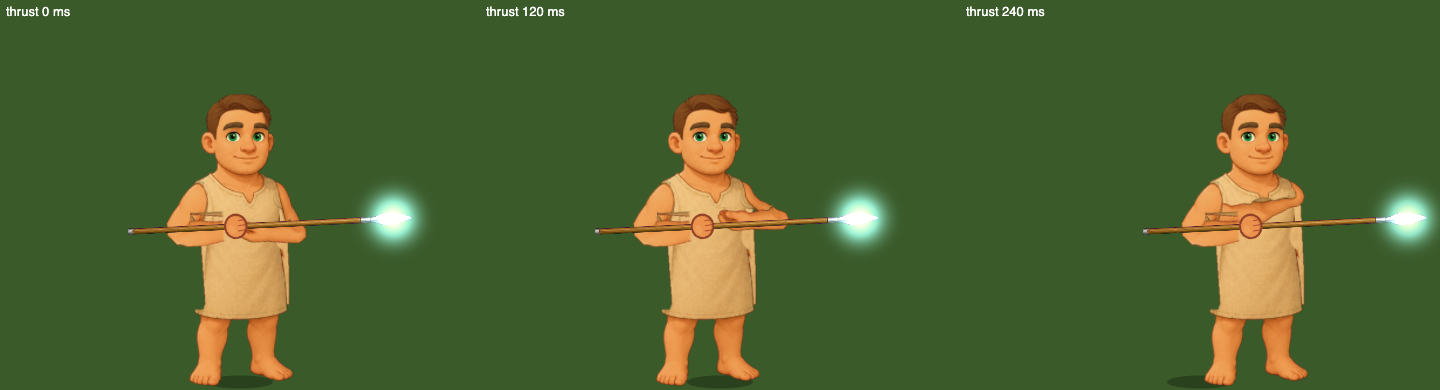
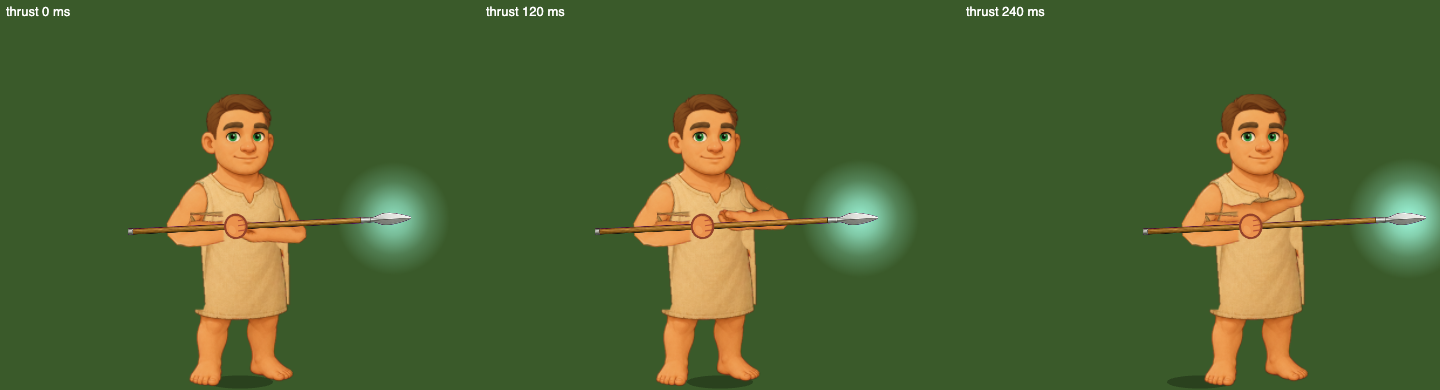
Magic Spear: a halo around the tip instead of a solid orb
The orb effect is now a corona: the colour only (no white core), densest next to
the head and fading out, ~3.2x the head's height across, with a crisp copy of the
weapon drawn over it so the spearhead stays clearly visible (owner feedback).

Changed region(s): [[0.5625, 0.4308, 0.6562, 0.6769], [0.2188, 0.4308, 0.3125, 0.6769], [0.9375, 0.4308, 1.0, 0.7077]]

diff --git a/game-client/src/Render/PixiRenderer/weaponFX.js b/game-client/src/Render/PixiRenderer/weaponFX.js
@@ -6,9 +6,9 @@
  *                   above the crossguard, found as the widest row in the lower part of the drawing,
  *                   so the hilt and the hand stay unlit (owner 2026-11-14)
  *   glow:#ffd27a    the same in a colour of its own
- *   orb             a round ball of light around the weapon's TIP (the Magic Spear, owner 2026-11-14):
+ *   orb             a round halo (corona) around the weapon's TIP, the head still clearly seen (the Magic Spear, owner 2026-11-14):
  *                   the head is found from the drawing (the top rows wider than the shaft), the orb
- *                   sits on its middle, a little bigger than the head, and breathes; orb:#hex for a colour
+ *                   is centred on it, about three times the head across, and breathes; orb:#hex for a colour
  *
  * An effect is built as a CHILD of the weapon's sprite (ArmRig.setHeld), so it inherits the weapon's
  * position, rotation, scale and visibility: it travels with the prop through the guard and every
@@ -106,7 +106,7 @@ function buildGlow(weapon, option) {
 // -------------------------------------------------------------------------------------------- orb
 const ORB = {
   colour: '#8fe3ff',   // an arcane pale blue
-  size: 2.6,           // the orb's diameter, as a multiple of the head's height
+  size: 3.2,           // the halo's diameter, as a multiple of the head's height
   alpha: [0.55, 0.95],
   scale: [0.9, 1.08],  // it swells a little as it brightens
   periodMs: 1400,
@@ -148,20 +148,17 @@ function orbTexture(colour) {
   const n = 128, c = document.createElement('canvas');
   c.width = c.height = n;
   const ctx = c.getContext('2d');
-  const g = ctx.createRadialGradient(n / 2, n / 2, 0, n / 2, n / 2, n / 2);
-  g.addColorStop(0, 'rgba(255,255,255,1)');
-  g.addColorStop(0.18, 'rgba(255,255,255,0.9)');
-  g.addColorStop(0.35, colour);
-  g.addColorStop(1, 'rgba(0,0,0,0)');
-  ctx.fillStyle = g;
-  ctx.fillRect(0, 0, n, n);
-  // the colour stop is opaque: fade it so only the core is solid
-  ctx.globalCompositeOperation = 'destination-in';
-  const f = ctx.createRadialGradient(n / 2, n / 2, 0, n / 2, n / 2, n / 2);
-  f.addColorStop(0, 'rgba(0,0,0,1)');
-  f.addColorStop(0.45, 'rgba(0,0,0,0.6)');
-  f.addColorStop(1, 'rgba(0,0,0,0)');
-  ctx.fillStyle = f;
+  const hex = colour.replace('#', '');
+  const [r, g, b] = [0, 2, 4].map((i) => parseInt(hex.length === 3 ? hex[i / 2] + hex[i / 2] : hex.slice(i, i + 2), 16) || 0);
+  const at = (alpha) => `rgba(${r},${g},${b},${alpha})`;
+  // a corona, not a ball: the colour only, densest next to the head and fading smoothly outwards (owner 2026-11-14:
+  // "a corona/halo rather than a solid orb ... see the blade"); the head itself is drawn again on top (buildOrb)
+  const grad = ctx.createRadialGradient(n / 2, n / 2, 0, n / 2, n / 2, n / 2);
+  grad.addColorStop(0, at(0.75));
+  grad.addColorStop(0.3, at(0.55));
+  grad.addColorStop(0.65, at(0.2));
+  grad.addColorStop(1, at(0));
+  ctx.fillStyle = grad;
   ctx.fillRect(0, 0, n, n);
   const t = Texture.from(c);
   orbCache.set(colour, t);
@@ -173,7 +170,10 @@ function buildOrb(weapon, option) {
   const sprite = new Sprite(orbTexture(colour));
   sprite.anchor.set(0.5);
   sprite.blendMode = BLEND_MODES.ADD;
-  weapon.addChild(sprite); // over the head: the tip shines from inside the ball of light
+  // children draw over their parent: a crisp copy of the weapon goes on top so the head shows clearly inside its halo
+  const crisp = new Sprite(weapon.texture);
+  crisp.anchor.copyFrom(weapon.anchor);
+  weapon.addChild(sprite, crisp);
   const phase = Math.random();
   let ready = false, base = 1;
   const place = () => {
@@ -182,6 +182,8 @@ function buildOrb(weapon, option) {
     const tip = tipOf(tex);
     sprite.position.set(tip.x - weapon.anchor.x * tex.width, tip.y - weapon.anchor.y * tex.height);
     base = (tip.height * ORB.size) / 128;
+    crisp.texture = tex;
+    crisp.anchor.copyFrom(weapon.anchor);
     ready = true;
   };
   return {
@@ -191,7 +193,7 @@ function buildOrb(weapon, option) {
       sprite.alpha = ORB.alpha[0] + (ORB.alpha[1] - ORB.alpha[0]) * k;
       sprite.scale.set(base * (ORB.scale[0] + (ORB.scale[1] - ORB.scale[0]) * k));
     },
-    destroy() { sprite.parent?.removeChild(sprite); sprite.destroy(); },
+    destroy() { for (const o of [sprite, crisp]) { o.parent?.removeChild(o); o.destroy(); } },
   };
 }
 

diff --git a/tools/editor/sheets/definitions.js b/tools/editor/sheets/definitions.js
@@ -52,7 +52,7 @@ export const DEFINITIONS = [
       { ...str('type'), immutable: true, required: true },
       { ...str('layoutkey'), immutable: true },
       { ...str('category'), type: 'enum', enum: ['tile', 'special', 'doober', 'source', 'farmplot', 'travel', 'editor', 'deco', 'stall', 'training', 'crafting', 'trainingAndShop', 'station', 'farmhouse', 'shop', 'npc', 'skill', 'power', 'pet', 'region'], required: true },
-      str('symbol'), str('filename'), { ...str('iconFile'), label: 'iconFile (panel icon when the board art differs: a fruit doober\'s painted fruit while filename is the fruited tree)' }, { key: 'weaponClass', label: 'weaponClass (a weapon\'s category: it picks the drawing in the avatar\'s hand, the guard and the swing; blank = nothing in the hand; game-client heldWeapon.js, docs/equipment-plan.md)', type: 'enum', enum: ['sword', 'greatsword', 'rapier', 'dagger', 'spear', 'polearm', 'axe', 'hammer', 'bow', 'longbow', 'crossbow'] }, { ...str('heldArt'), label: 'heldArt (this weapon\'s own drawing, a file under game-client/public/assets/avatar/hand (weapons/<name>.png) on its category\'s canvas; blank = the category\'s drawing)' }, { ...str('heldFx'), label: 'heldFx (optional: an effect on the weapon in the hand that moves with it, game-client weaponFX.js: glow (the blade), orb (a ball of light on the tip), each optionally :#rrggbb)' }, str('action'), bool('passable'), num('level'), str('source'),
+      str('symbol'), str('filename'), { ...str('iconFile'), label: 'iconFile (panel icon when the board art differs: a fruit doober\'s painted fruit while filename is the fruited tree)' }, { key: 'weaponClass', label: 'weaponClass (a weapon\'s category: it picks the drawing in the avatar\'s hand, the guard and the swing; blank = nothing in the hand; game-client heldWeapon.js, docs/equipment-plan.md)', type: 'enum', enum: ['sword', 'greatsword', 'rapier', 'dagger', 'spear', 'polearm', 'axe', 'hammer', 'bow', 'longbow', 'crossbow'] }, { ...str('heldArt'), label: 'heldArt (this weapon\'s own drawing, a file under game-client/public/assets/avatar/hand (weapons/<name>.png) on its category\'s canvas; blank = the category\'s drawing)' }, { ...str('heldFx'), label: 'heldFx (optional: an effect on the weapon in the hand that moves with it, game-client weaponFX.js: glow (the blade), orb (a halo around the tip), each optionally :#rrggbb)' }, str('action'), bool('passable'), num('level'), str('source'),
       { ...ref('shopregion', 'resource', 'error'), label: 'shopregion (only this region\'s shops sell it)' },
       { ...ref('growregion', 'resource', 'error'), label: 'growregion (farm plots: only planted, farm animals: only bought, on grids of this region)' }, str('requires'),
       bool('retired', 'retired (no longer sold or offered; players who own it keep it)'),

diff --git a/docs/equipment-plan.md b/docs/equipment-plan.md
@@ -215,9 +215,10 @@ takes over; nothing is to be done about it.
   - `glow` (or `glow:#rrggbb`): a breathing halo on the BLADE only (everything above the crossguard, found as the widest
     row of the drawing's lower part), with a crisp copy of the weapon drawn over it. On the Glowing Sword
     (`docs/art/equipment/glowing-sword.png`).
-  - `orb` (or `orb:#rrggbb`): a round, pulsing ball of light on the weapon's TIP (the head found from the drawing: the top
-    rows wider than the shaft), about 2.6 times the head's height across, white core in a pale arcane blue. On the Magic
-    Spear (owner 2026-11-14; `docs/art/equipment/magic-spear-orb.png`).
+  - `orb` (or `orb:#rrggbb`): a round, pulsing halo (corona) around the weapon's TIP (the head found from the drawing:
+    the top rows wider than the shaft), about 3.2 times the head's height across, in a pale arcane blue, with a crisp copy
+    of the weapon drawn over it so the head stays clearly visible (owner: "a corona/halo rather than a solid orb"). On the
+    Magic Spear (owner 2026-11-14; `docs/art/equipment/magic-spear-orb.png`).
   A new kind is one entry in `KINDS`. `rigshot --fx glow` (or `--fx orb`) shows one.
 
 ## 1. What exists today
